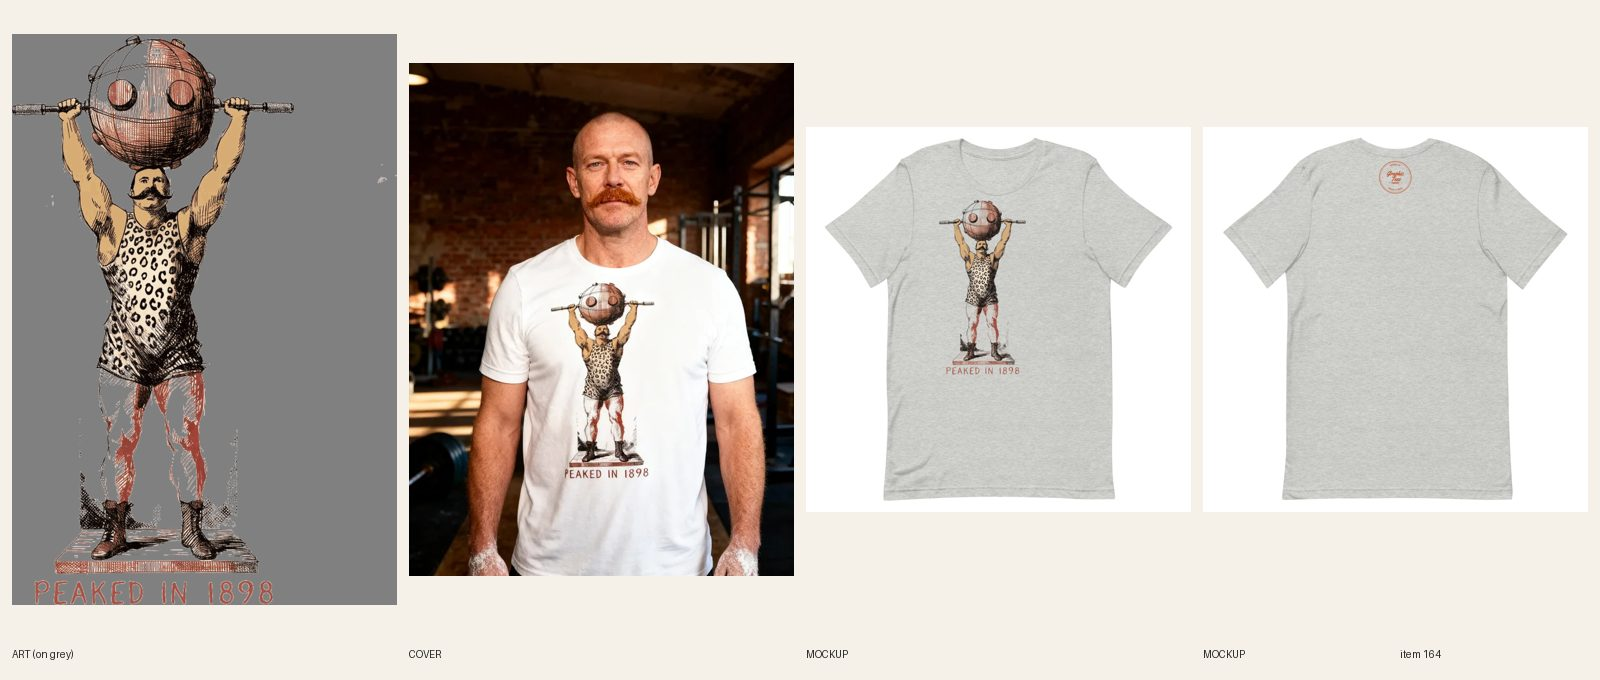
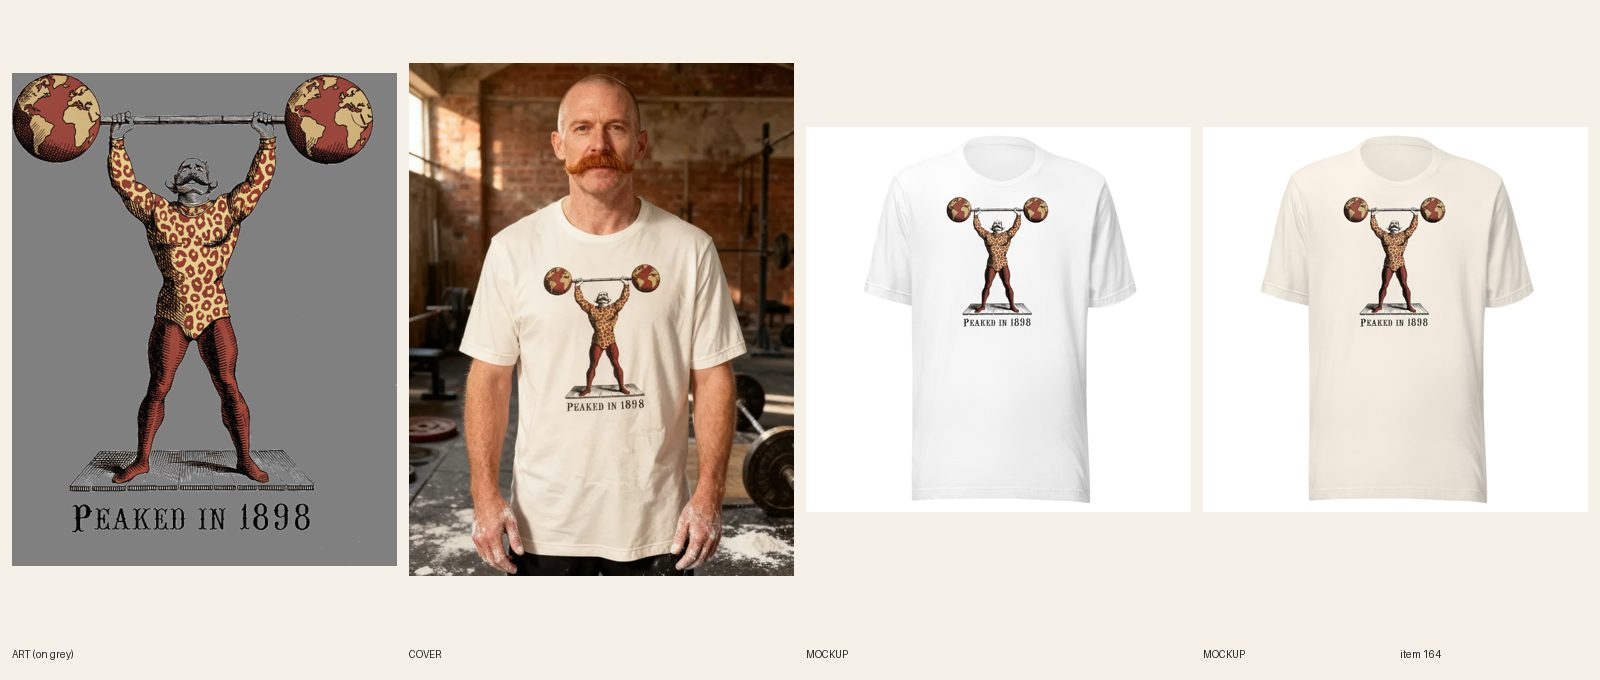
[B] build 164 redo (sync running)

diff --git a/src/data/covers.ts b/src/data/covers.ts
@@ -50,7 +50,7 @@ export const covers: Record<string, { src: string; alt: string }> = {
   'mens-gym-strong-and-courageous-graphic-tee': { src: '/covers/mens-gym-strong-and-courageous-graphic-tee.webp', alt: 'Man in a busy commercial gym at lunchtime holding a water bottle at his side wearing the Strong & Courageous tee' },
   'mens-gym-golden-era-pose-graphic-tee': { src: '/covers/mens-gym-golden-era-pose-graphic-tee.webp', alt: 'Man with curly dark hair and a towel around his neck at a beach-side outdoor gym under palm trees, wearing the Beach Body Pending tee' },
   'mens-gym-gym-rat-graphic-tee': { src: '/covers/mens-gym-gym-rat-graphic-tee.webp', alt: 'Man in an old-school basement gym with a chalkboard of lifts behind him wearing the Gym Rat pump cover' },
-  'mens-gym-old-school-strength-graphic-tee': { src: '/covers/mens-gym-old-school-strength-graphic-tee.webp', alt: 'Man in an outdoor strongman training yard with atlas stones and a tire behind him wearing the Old School Strength tee' },
+  'mens-gym-old-school-strength-graphic-tee': { src: '/covers/mens-gym-old-school-strength-graphic-tee.webp', alt: 'Man with a ginger handlebar mustache in an old brick weightlifting gym wearing the Peaked in 1898 strongman tee' },
   'mens-gym-leg-day-survivor-graphic-tee': { src: '/covers/mens-gym-leg-day-survivor-graphic-tee.webp', alt: 'Man sitting on a weight bench in front of a squat rack after leg day wearing the Leg Day Survivor tee' },
   'mens-gym-heavy-bag-dept-graphic-tee': { src: '/covers/mens-gym-heavy-bag-dept-graphic-tee.webp', alt: 'Man in an old brick boxing gym with a row of heavy bags on chains wearing the Heavy Bag Dept. tee' },
   'womens-western-steer-skull-wildflowers-graphic-tee': { src: '/covers/womens-western-steer-skull-wildflowers-graphic-tee.webp', alt: 'Woman on the porch of a working ranch house with cattle in the pasture behind her wearing the Steer Skull & Wildflowers tee' },

diff --git a/docs/model-registry.md b/docs/model-registry.md
@@ -217,7 +217,7 @@ Rows 11–43 were re-pointed on 2026-10-08 when the briefs were rewritten from d
 | 231 | South Asian man in his early 30s, neat side-part, clean-shaven, slim build | USED 2026-10-16 — #161 Technically a Sweater tee cover (fal Seedream 4, office holiday party; try 2 kept: try 1 repeated A SWEATER and used the wrong face) |
 | 232 | Pair: white man in his late 20s, red beard, beanie + Vietnamese-American woman in her late 20s, straight black hair with bangs | USED 2026-10-16 — #162 Technically a Sweater crewneck cover (fal Seedream 4, ugly-sweater party living room; try 1 kept) |
 | 233 | Puerto Rican man in his early 30s, curly black hair, muscular build | RESERVED — #163 Beach Body Pending redo cover |
-| 234 | White man in his late 40s, ginger handlebar mustache, shaved head | RESERVED — #164 Peaked in 1898 redo cover |
+| 234 | White man in his late 40s, ginger handlebar mustache, shaved head | USED 2026-10-16 — #164 Peaked in 1898 redo cover (try 1 of 3 images, #2 kept) |
 | 235 | Black man in his mid 30s, short twists, athletic build | RESERVED — #165 Conflict Resolution redo cover |
 | 236 | White man in his late 60s, white beard, bucket hat | RESERVED — #166 Professional Line Untangler cover |
 | 237 | Arab-American man in his early 40s, dark short hair, trimmed beard, stocky build | RESERVED — #167 Rest Day Enthusiast cover |

diff --git a/docs/pipeline/164-gym-old-school-strength-redo.md b/docs/pipeline/164-gym-old-school-strength-redo.md
@@ -29,3 +29,4 @@ handle: mens-gym-old-school-strength-graphic-tee
   2. R5.3.6/R4.2 (finish): the legs are half-rendered: grey shows through the tights with loose red streaks, so the lower body looks unfinished next to the engraved torso. Render the tights fully in the same engraving style (solid ink with hatching).
   3. R5.3.8 (prints clean): stray specks to the right of the figure (right edge, shoulder height); clean them in print-prep.
   4. Keep the hook PEAKED IN 1898, the leopard singlet, palette, light colors and copy (update the copy only if the barbell description changes: "a globe barbell" stays true). New Printful file, re-sync, mockups, variant images; cover: same registry row, hands chalked at the sides is fine.
+- 2026-10-16 21:19 UTC [B]: REDO round 2: new Recraft art (globe on each end of the bar, nothing touching the head, fully rendered tights, clean edges; try 1), Printful file 1087830991, 30 variants resyncing (FORCE setfile, log in scratch), 4 new front mockups + back swapped in place with alts, new cover (registry #234, image 2 of 3, chalk hands at sides, every word readable), copy updated (red tights, globe on each end). Audit PASS. Review sheet docs/review/164.jpg. Set REVIEW when synced 30/30.
